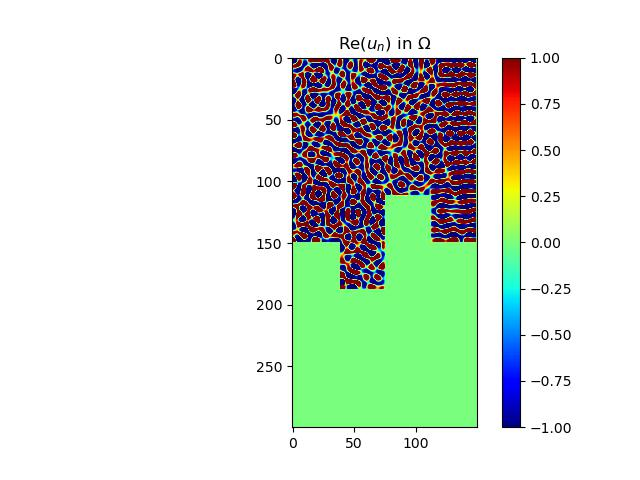
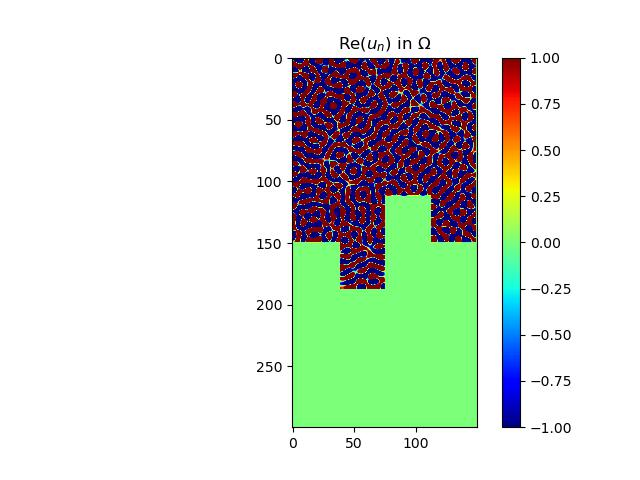
ahhhh ca marche pas

Changed region(s): [[0.4375, 0.0938, 0.75, 0.625]]

diff --git a/demo_control_polycopie.py b/demo_control_polycopie.py
@@ -266,7 +266,7 @@ if __name__ == '__main__':
 
 
 
-    '''
+
     # build a binary design by keeping the largest V_obj values of chi
     (M, N) = numpy.shape(domain_omega)
     total_cells = M * N
@@ -302,9 +302,9 @@ if __name__ == '__main__':
 
     # gradient and energy for the final design
     grad = -1 * np.real(Alpha * u * p)
-    energy = np.real(compute_objective_function(domain_omega, u, spacestep, mu1, V_0))
+    
 
-    '''
+  
 
 
 
@@ -321,6 +321,8 @@ if __name__ == '__main__':
         energy = energy[:int(_zero_idx[0])].copy()
     print('Chi sum:', numpy.sum(numpy.sum(chin)))
     # -- plot chi, u, and energy
+
+    energy += [np.real(compute_objective_function(domain_omega, u, spacestep, mu1, V_0))]
     postprocessing._plot_uncontroled_solution(u0, chi0)
     postprocessing._plot_controled_solution(un, chin)
     err = un - u0
